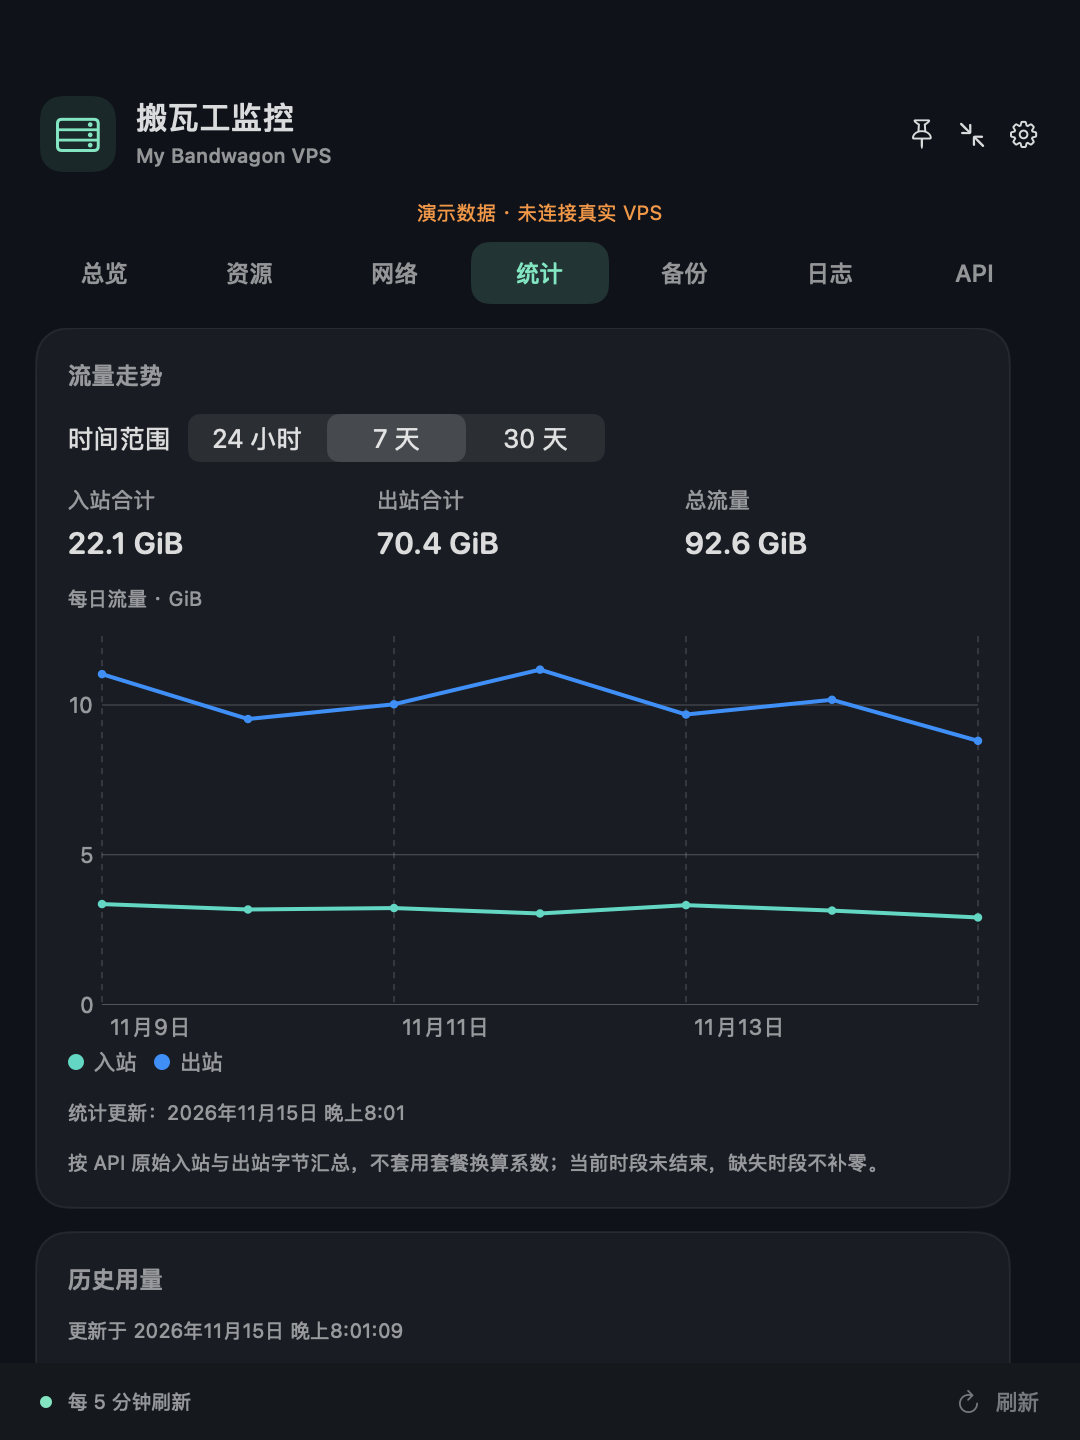
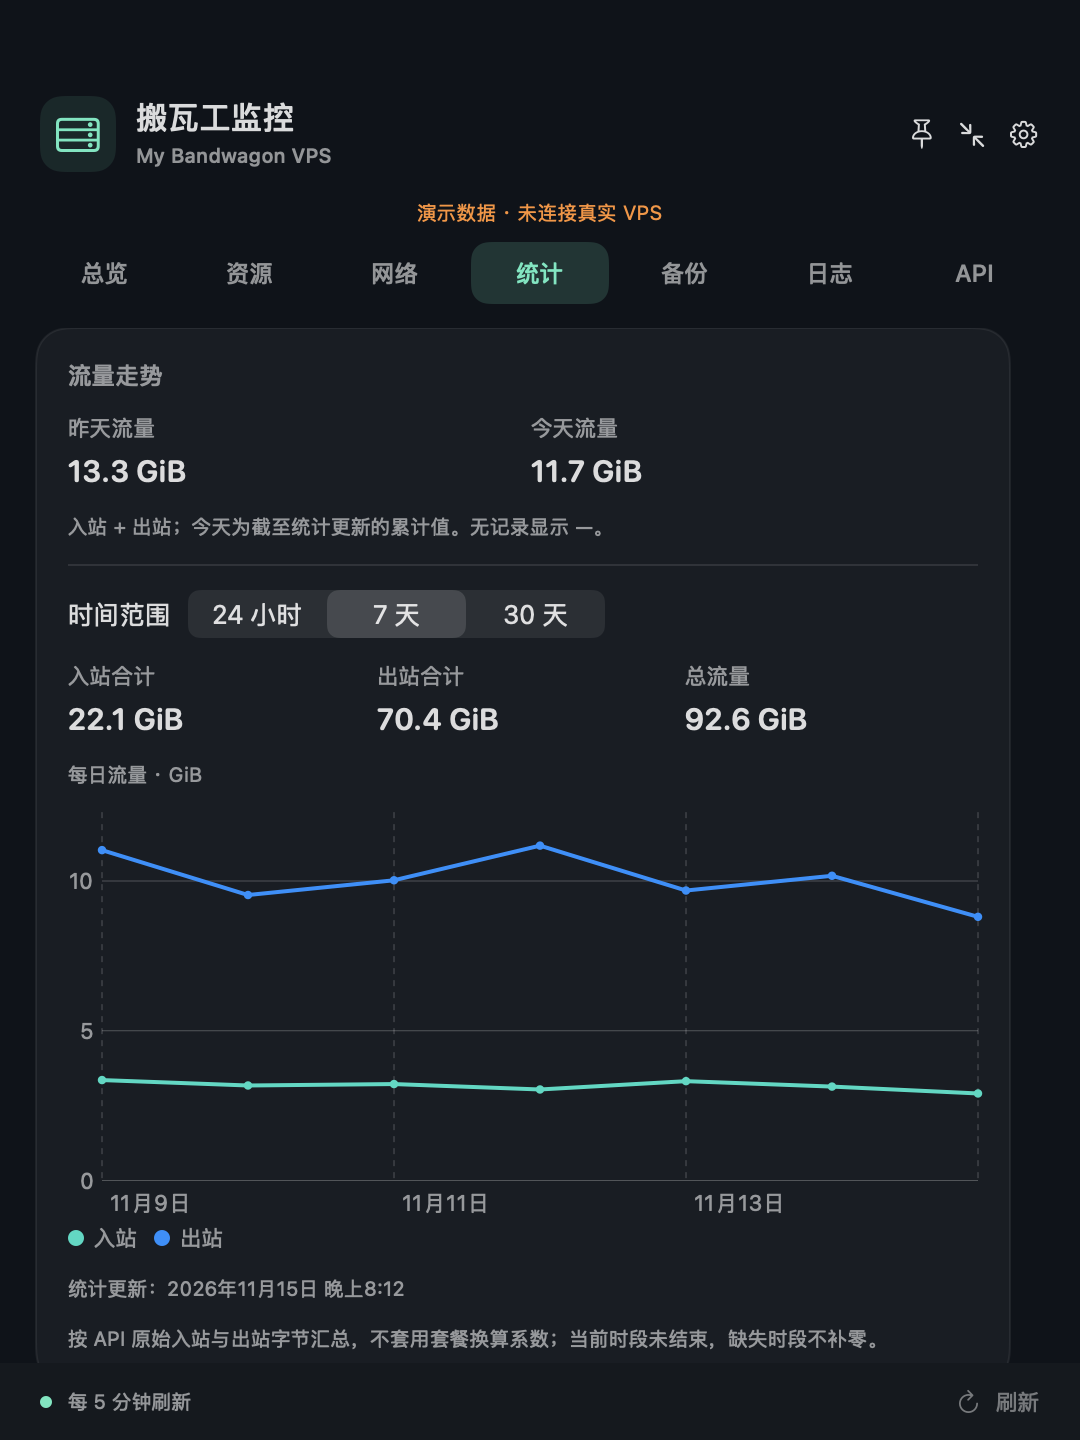
Show yesterday and today traffic totals in history views

diff --git a/Widget/BandwagonWidgets.swift b/Widget/BandwagonWidgets.swift
@@ -48,7 +48,7 @@ struct MonitorWidgetView: View {
                 Spacer(minLength: 0)
                 HStack(spacing: 4) {
                     if s.error != nil { Image(systemName: "exclamationmark.triangle.fill").foregroundStyle(.orange) }
-                    if let date = s.updated { Text(date, style: .time); Text(entry.date.timeIntervalSince(date) > 20 * 60 ? "数据较旧" : "更新") }
+                    if let date = category == "history" ? s.trendUpdated : s.updated { Text(date, style: .time); Text(entry.date.timeIntervalSince(date) > 20 * 60 ? "数据较旧" : "更新") }
                     else { Text("等待应用同步") }
                     Spacer(minLength: 0)
                     if family != .systemSmall { Text("点击查看详情") }
@@ -103,12 +103,21 @@ struct MonitorWidgetView: View {
     }
     var historyContent: some View {
         VStack(alignment:.leading,spacing:6) {
-            Text("最近 7 天 · 每日流量（GiB）").font(.system(size:10)).foregroundStyle(.secondary)
-            UsageTrend(points:s.trend ?? [],compact:family != .systemLarge).frame(height:family == .systemLarge ? 190 : 55)
-            if let updated = s.trendUpdated {
-                HStack { Text("统计更新"); Text(updated,style:.time) }.font(.system(size:9)).foregroundStyle(.secondary)
+            HStack(spacing:12) {
+                dailyMetric("昨天流量", offset:-1)
+                dailyMetric("今天流量 · 累计", offset:0)
             }
+            Text("最近 7 天 · 每日流量（GiB）").font(.system(size:10)).foregroundStyle(.secondary)
+            UsageTrend(points:s.trend ?? [],compact:family != .systemLarge).frame(height:family == .systemLarge ? 155 : 24)
         }
+    }
+    func dailyMetric(_ title: String, offset: Int) -> some View {
+        VStack(alignment:.leading,spacing:2) {
+            Text(title).font(.system(size:9)).foregroundStyle(.secondary)
+            Text(widgetBytes(UsageHistory.dayTotal(s.trend ?? [],offset:offset,now:entry.date)))
+                .font(.system(size:family == .systemLarge ? 22 : 17,weight:.semibold,design:.rounded))
+                .foregroundStyle(mint).lineLimit(1).minimumScaleFactor(0.7)
+        }.frame(maxWidth:.infinity,alignment:.leading)
     }
     var resetLine: some View {
         HStack(spacing: 3) {

diff --git a/Shared/UsageHistory.swift b/Shared/UsageHistory.swift
@@ -11,6 +11,12 @@ struct UsagePoint: Codable, Identifiable {
     var total: Double { incoming + outgoing }
 }
 enum UsageHistory {
+    static func dayTotal(_ samples: [UsagePoint], offset: Int, now: Date = Date(), calendar: Calendar = .current) -> Double? {
+        guard let start = calendar.date(byAdding:.day,value:offset,to:calendar.startOfDay(for:now)),
+              let end = calendar.date(byAdding:.day,value:1,to:start) else { return nil }
+        let matching = samples.filter { $0.time >= start && $0.time < end && $0.time <= now }
+        return matching.isEmpty ? nil : matching.reduce(0) { $0 + $1.total }
+    }
     static func parse(_ payload: [String: Any]) -> [UsagePoint] {
         let rows: [[String: Any]]
         if let list = payload["data"] as? [[String: Any]] { rows = list }
@@ -59,6 +65,16 @@ enum UsageHistory {
         guard gap.count == 2, gap[1].segment == 1 else { throw NSError(domain:"History test",code:3) }
         let data = try JSONEncoder().encode(parsed)
         guard try JSONDecoder().decode([UsagePoint].self,from:data).count == 2 else { throw NSError(domain:"History test",code:4) }
+        var calendar = Calendar(identifier:.gregorian)
+        calendar.timeZone = TimeZone(secondsFromGMT:0)!
+        let now = Date(timeIntervalSince1970:1700049600)
+        let midnight = calendar.startOfDay(for:now)
+        let daily = [UsagePoint(time:midnight.addingTimeInterval(-1),incoming:10,outgoing:20), UsagePoint(time:midnight,incoming:4,outgoing:5)]
+        guard dayTotal(daily,offset:-1,now:now,calendar:calendar) == 30,
+              dayTotal(daily,offset:0,now:now,calendar:calendar) == 9,
+              dayTotal([],offset:0,now:now,calendar:calendar) == nil,
+              dayTotal([UsagePoint(time:midnight,incoming:0,outgoing:0)],offset:0,now:now,calendar:calendar) == 0 else { throw NSError(domain:"Daily totals test",code:1) }
+        print("PASS: 昨天/今天按自然日分界，缺失记录与真实零流量区分")
         print("PASS: 历史解析、字符串数值、去重、无效记录、分桶汇总、缺口断线及缓存编码")
     }
 }

diff --git a/Sources/HistoryView.swift b/Sources/HistoryView.swift
@@ -5,6 +5,12 @@ struct HistoryView: View {
     var points: [UsagePoint] { UsageHistory.aggregate(model.usageSamples, days: days) }
     var body: some View {
         Panel(title:"流量走势") {
+            HStack {
+                Metric(title:"昨天流量",value:bytes(UsageHistory.dayTotal(model.usageSamples,offset:-1)))
+                Metric(title:"今天流量",value:bytes(UsageHistory.dayTotal(model.usageSamples,offset:0)))
+            }
+            Text("入站 + 出站；今天为截至统计更新的累计值。无记录显示 —。") .font(.caption).foregroundStyle(.secondary)
+            Divider()
             Picker("时间范围",selection:$days) { Text("24 小时").tag(1); Text("7 天").tag(7); Text("30 天").tag(30) }.pickerStyle(.segmented)
             HStack {
                 Metric(title:"入站合计",value:bytes(points.isEmpty ? nil : points.reduce(0,{$0 + $1.incoming})))

diff --git a/README.md b/README.md
@@ -34,7 +34,7 @@
 ## 功能
 
 - 剩余／已用／总流量、使用比例、重置时间。
-- 24 小时、7 天、30 天入站与出站流量走势图。
+- 24 小时、7 天、30 天入站与出站流量走势图；统计页和走势图小组件显示昨天／今天累计流量。
 - 运行状态、负载、内存、Swap、磁盘映射空间、CPU 与磁盘限速。
 - IP、机房、反向 DNS、黑洞记录、备份、快照、审计与违规记录。
 - 流量、资源、网络、独立走势图四种原生桌面小组件。
